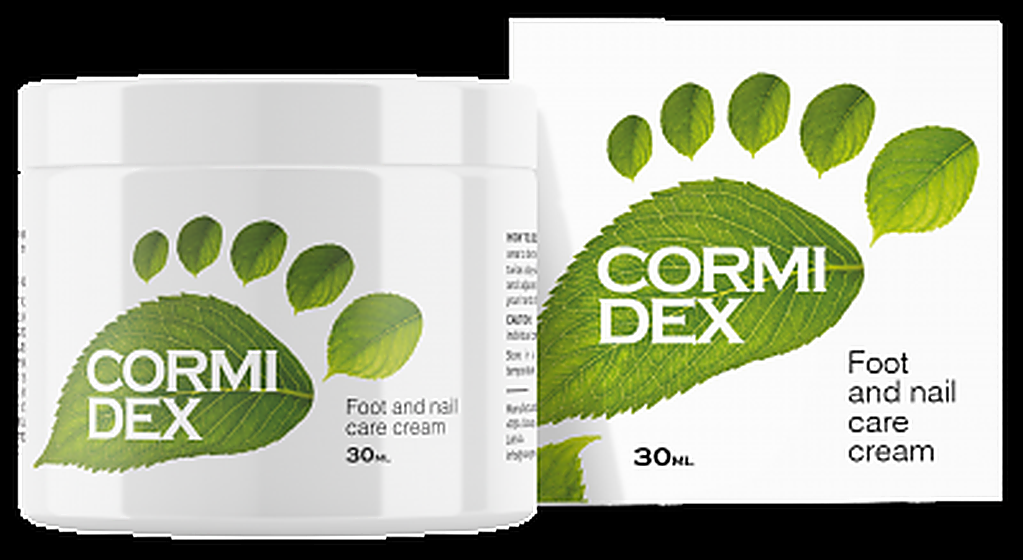
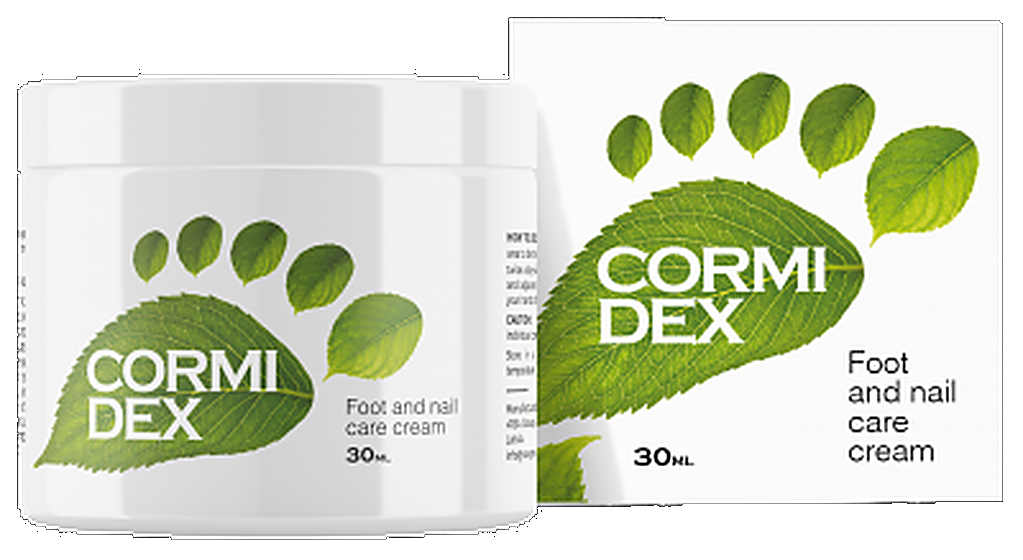
Фото: белый фон вместо чёрного — 763 кадра заливкой, 223 перерисовкой с автопроверкой текста

Changed region(s): [[0.0, 0.0, 1.0, 1.0]]

diff --git a/index.html b/index.html
@@ -52,7 +52,7 @@
 <div class="wrap">
   <header><img src="favicon.png" alt=""><h1>Ražotāja veikals</h1></header>
   <div class="intro"><p>Ikdienas labsajūtai paredzētu produktu tieša pārdošana.</p></div>
-  <div class="grid"><a class="card" href="/cp/abslim/"><div class="ph"><img src="img/lbhd-15182.png" alt="ABSlim" loading="lazy"></div><div class="name">ABSlim</div><div class="price">39 €</div><div class="btn">PASŪTĪT ORIĢINĀLU</div></a><a class="card" href="/cp/adamour/"><div class="ph"><img src="img/cp-4641.jpg" alt="Adamour" loading="lazy"></div><div class="name">Adamour</div><div class="price">39 €</div><div class="btn">PASŪTĪT ORIĢINĀLU</div></a><a class="card" href="/cp/alvarix/"><div class="ph"><img src="img/cp-16305.jpg" alt="Alvarix" loading="lazy"></div><div class="name">Alvarix</div><div class="price">39 €</div><div class="btn">PASŪTĪT ORIĢINĀLU</div></a><a class="card" href="/dc/articulor-balm/"><div class="ph"><img src="img/dccard-29939.png" alt="Articulor balm" loading="lazy"></div><div class="name">Articulor balm</div><div class="price">1 iep. BEZ MAKSAS</div><div class="btn">PASŪTĪT ORIĢINĀLU</div></a><a class="card" href="/ev/ausen/"><div class="ph"><img src="img/hd-eve-1589.png" alt="Ausen" loading="lazy"></div><div class="name">Ausen</div><div class="price">39 €</div><div class="btn">PASŪTĪT ORIĢINĀLU</div></a><a class="card" href="/sh/balancio/"><div class="ph"><img src="img/shhd-17588.png" alt="Balancio" loading="lazy"></div><div class="name">Balancio</div><div class="price">29 €</div><div class="btn">PASŪTĪT ORIĢINĀLU</div></a><a class="card" href="/cp/beauty-age/"><div class="ph"><img src="img/cp-16307.jpg" alt="Beauty Age" loading="lazy"></div><div class="name">Beauty Age</div><div class="price">39 €</div><div class="btn">PASŪTĪT ORIĢINĀLU</div></a><a class="card" href="/ev/beauty-age-skin/"><div class="ph"><img src="img/hd-eve-1013.png" alt="Beauty Age Skin" loading="lazy"></div><div class="name">Beauty Age Skin</div><div class="price">39 €</div><div class="btn">PASŪTĪT ORIĢINĀLU</div></a><a class="card" href="/kma/beauty-age-skin-peeling/"><div class="ph"><img src="img/kmahd-9824.png" alt="Beauty Age Skin Peeling" loading="lazy"></div><div class="name">Beauty Age Skin Peeling</div><div class="price">39 €</div><div class="btn">PASŪTĪT ORIĢINĀLU</div></a><a class="card" href="/rp/bionetic/"><div class="ph"><img src="img/rphd-861.png" alt="Bionetic" loading="lazy"></div><div class="name">Bionetic</div><div class="price">39 €</div><div class="btn">PASŪTĪT ORIĢINĀLU</div></a><a class="card" href="/cp/candidol/"><div class="ph"><img src="img/cp-5097.jpg" alt="Candidol" loading="lazy"></div><div class="name">Candidol</div><div class="price">39 €</div><div class="btn">PASŪTĪT ORIĢINĀLU</div></a><a class="card" href="/cp/cardiform/"><div class="ph"><img src="img/everad-cardiform.png" alt="Cardiform" loading="lazy"></div><div class="name">Cardiform</div><div class="price">39 €</div><div class="btn">PASŪTĪT ORIĢINĀLU</div></a><a class="card" href="/rp/cleorix/"><div class="ph"><img src="img/hd-roc-1238.png" alt="Cleorix" loading="lazy"></div><div class="name">Cleorix</div><div class="price">39 €</div><div class="btn">PASŪTĪT ORIĢINĀLU</div></a><a class="card" href="/lb/cormidox-cream/"><div class="ph"><img src="img/lbhd-17933.png" alt="Cormidox Cream" loading="lazy"></div><div class="name">Cormidox Cream</div><div class="price">49 €</div><div class="btn">PASŪTĪT ORIĢINĀLU</div></a><a class="card" href="/cp/cystolax/"><div class="ph"><img src="img/cpagetti-cystolax.png" alt="Cystolax" loading="lazy"></div><div class="name">Cystolax</div><div class="price">39 €</div><div class="btn">PASŪTĪT ORIĢINĀLU</div></a><a class="card" href="/cp/demyxil/"><div class="ph"><img src="img/everad-demyxil.png" alt="Demyxil" loading="lazy"></div><div class="name">Demyxil</div><div class="price">39 €</div><div class="btn">PASŪTĪT ORIĢINĀLU</div></a><a class="card" href="/ev/depanten/"><div class="ph"><img src="img/hd-eve-1200.png" alt="Depanten" loading="lazy"></div><div class="name">Depanten</div><div class="price">39 €</div><div class="btn">PASŪTĪT ORIĢINĀLU</div></a><a class="card" href="/cp/desalix/"><div class="ph"><img src="img/cat-drc-28679.jpg" alt="Desalix" loading="lazy"></div><div class="name">Desalix</div><div class="price">39 €</div><div class="btn">PASŪTĪT ORIĢINĀLU</div></a><a class="card" href="/dc/dia-control/"><div class="ph"><img src="img/cat-drc-28609.jpg" alt="Dia Control caps" loading="lazy"></div><div class="name">Dia Control caps</div><div class="price">1 iep. BEZ MAKSAS</div><div class="btn">PASŪTĪT ORIĢINĀLU</div></a><a class="card" href="/dc/diacontrol/"><div class="ph"><img src="img/drcash-diacontrol.png" alt="DiaControl caps" loading="lazy"></div><div class="name">DiaControl caps</div><div class="price">1 iep. BEZ MAKSAS</div><div class="btn">PASŪTĪT ORIĢINĀLU</div></a><a class="card" href="/cp/diaform/"><div class="ph"><img src="img/ev-cab-diaform.png" alt="Diaform+" loading="lazy"></div><div class="name">Diaform+</div><div class="price">39 €</div><div class="btn">PASŪTĪT ORIĢINĀLU</div></a><a class="card" href="/tl/diaquilin/"><div class="ph"><img src="img/tlhd-15400.png" alt="DiaQuilin" loading="lazy"></div><div class="name">DiaQuilin</div><div class="price">99 €</div><div class="btn">PASŪTĪT ORIĢINĀLU</div></a><a class="card" href="/tl/dm-norm/"><div class="ph"><img src="img/tlhd-13077.jpg" alt="DM-Norm" loading="lazy"></div><div class="name">DM-Norm</div><div class="price">90 €</div><div class="btn">PASŪTĪT ORIĢINĀLU</div></a><a class="card" href="/lb/dorsodex-cream/"><div class="ph"><img src="img/lbhd-17910.png" alt="Dorsodex Cream" loading="lazy"></div><div class="name">Dorsodex Cream</div><div class="price">49 €</div><div class="btn">PASŪTĪT ORIĢINĀLU</div></a><a class="card" href="/dc/erectogen/"><div class="ph"><img src="img/dccard-30045.png" alt="Erectogen Caps" loading="lazy"></div><div class="name">Erectogen Caps</div><div class="price">1 iep. BEZ MAKSAS</div><div class="btn">PASŪTĪT ORIĢINĀLU</div></a><a class="card" href="/lb/eudalie/"><div class="ph"><img src="img/lbhd-13922.png" alt="Eudalie" loading="lazy"></div><div class="name">Eudalie</div><div class="price">39 €</div><div class="btn">PASŪTĪT ORIĢINĀLU</div></a><a class="card" href="/m1/exofeet-oil/"><div class="ph"><img src="img/land-m1-6255.png" alt="Exofeet Oil" loading="lazy"></div><div class="name">Exofeet Oil</div><div class="price">39 €</div><div class="btn">PASŪTĪT ORIĢINĀLU</div></a><a class="card" href="/cp/exurol/"><div class="ph"><img src="img/drcash-exurol.png" alt="Exurol" loading="lazy"></div><div class="name">Exurol</div><div class="price">39 €</div><div class="btn">PASŪTĪT ORIĢINĀLU</div></a><a class="card" href="/dc/farmacin-drops/"><div class="ph"><img src="img/cat-drc-30383.jpg" alt="FARMACIN Drops" loading="lazy"></div><div class="name">FARMACIN Drops</div><div class="price">1 iep. BEZ MAKSAS</div><div class="btn">PASŪTĪT ORIĢINĀLU</div></a><a class="card" href="/cp/femixal/"><div class="ph"><img src="img/ev-cab-femixal.png" alt="Femixal" loading="lazy"></div><div class="name">Femixal</div><div class="price">39 €</div><div class="btn">PASŪTĪT ORIĢINĀLU</div></a><a class="card" href="/lb/fungizol-cream/"><div class="ph"><img src="img/lbhd-17911.png" alt="Fungizol Cream" loading="lazy"></div><div class="name">Fungizol Cream</div><div class="price">49 €</div><div class="btn">PASŪTĪT ORIĢINĀLU</div></a><a class="card" href="/sh/gigant/"><div class="ph"><img src="img/lbhd-3762.png" alt="Gigant" loading="lazy"></div><div class="name">Gigant</div><div class="price">39 €</div><div class="btn">PASŪTĪT ORIĢINĀLU</div></a><a class="card" href="/cp/glucadin/"><div class="ph"><img src="img/cp-18019.jpg" alt="Glucadin" loading="lazy"></div><div class="name">Glucadin</div><div class="price">39 €</div><div class="btn">PASŪTĪT ORIĢINĀLU</div></a><a class="card" href="/rp/guavital/"><div class="ph"><img src="img/hd-roc-791.png" alt="Guavital Caps" loading="lazy"></div><div class="name">Guavital Caps</div><div class="price">39 €</div><div class="btn">PASŪTĪT ORIĢINĀLU</div></a><a class="card" href="/cp/hondrofrost/"><div class="ph"><img src="img/trafficlight-hondrofrost.webp" alt="Hondrofrost" loading="lazy"></div><div class="name">Hondrofrost</div><div class="price">39 €</div><div class="btn">PASŪTĪT ORIĢINĀLU</div></a><a class="card" href="/cp/hondroine/"><div class="ph"><img src="img/leadbit-hondroine.png" alt="Hondroine" loading="lazy"></div><div class="name">Hondroine</div><div class="price">39 €</div><div class="btn">PASŪTĪT ORIĢINĀLU</div></a><a class="card" href="/sh/hondroten/"><div class="ph"><img src="img/shhd-17840.png" alt="Hondroten" loading="lazy"></div><div class="name">Hondroten</div><div class="price">29 €</div><div class="btn">PASŪTĪT ORIĢINĀLU</div></a><a class="card" href="/tl/hyperon-active/"><div class="ph"><img src="img/tlhd-13078.jpg" alt="Hyperon Active" loading="lazy"></div><div class="name">Hyperon Active</div><div class="price">90 €</div><div class="btn">PASŪTĪT ORIĢINĀLU</div></a><a class="card" href="/tl/hyperton/"><div class="ph"><img src="img/land-meta-5214.png" alt="Hyperton" loading="lazy"></div><div class="name">Hyperton</div><div class="price">1 iep. BEZ MAKSAS</div><div class="btn">PASŪTĪT ORIĢINĀLU</div></a><a class="card" href="/lb/icexin/"><div class="ph"><img src="img/shakes-icexin.png" alt="Icexin" loading="lazy"></div><div class="name">Icexin</div><div class="price">29 €</div><div class="btn">PASŪTĪT ORIĢINĀLU</div></a><a class="card" href="/cp/inspicure/"><div class="ph"><img src="img/kma-inspicure-9881.jpg" alt="Inspicure" loading="lazy"></div><div class="name">Inspicure</div><div class="price">29 €</div><div class="btn">PASŪTĪT ORIĢINĀLU</div></a><a class="card" href="/cp/insuvit/"><div class="ph"><img src="img/cp-11689.jpg" alt="Insuvit" loading="lazy"></div><div class="name">Insuvit</div><div class="price">39 €</div><div class="btn">PASŪTĪT ORIĢINĀLU</div></a><a class="card" href="/ev/kardivix/"><div class="ph"><img src="img/hd-eve-1799.png" alt="Kardivix" loading="lazy"></div><div class="name">Kardivix</div><div class="price">39 €</div><div class="btn">PASŪTĪT ORIĢINĀLU</div></a><a class="card" href="/lb/keto-drops/"><div class="ph"><img src="img/lbhd-11669.png" alt="Keto" loading="lazy"></div><div class="name">Keto</div><div class="price">39 €</div><div class="btn">PASŪTĪT ORIĢINĀLU</div></a><a class="card" href="/cp/keto-drops/"><div class="ph"><img src="img/cp-11073.jpg" alt="Keto Drops" loading="lazy"></div><div class="name">Keto Drops</div><div class="price">39 €</div><div class="btn">PASŪTĪT ORIĢINĀLU</div></a><a class="card" href="/tl/libidomatic/"><div class="ph"><img src="img/tlhd-14881.png" alt="Libidomatic" loading="lazy"></div><div class="name">Libidomatic</div><div class="price">90 €</div><div class="btn">PASŪTĪT ORIĢINĀLU</div></a><a class="card" href="/tl/lio-strong/"><div class="ph"><img src="img/tlhd-13073.png" alt="Lio Strong" loading="lazy"></div><div class="name">Lio Strong</div><div class="price">90 €</div><div class="btn">PASŪTĪT ORIĢINĀLU</div></a><a class="card" href="/tl/mennex/"><div class="ph"><img src="img/tlhd-20133.png" alt="Mennex (Caps)" loading="lazy"></div><div class="name">Mennex (Caps)</div><div class="price">49 €</div><div class="btn">PASŪTĪT ORIĢINĀLU</div></a></div>
+  <div class="grid"><a class="card" href="/cp/abslim/"><div class="ph"><img src="img/lbhd-15182.png" alt="ABSlim" loading="lazy"></div><div class="name">ABSlim</div><div class="price">39 €</div><div class="btn">PASŪTĪT ORIĢINĀLU</div></a><a class="card" href="/cp/adamour/"><div class="ph"><img src="img/cp-4641.jpg" alt="Adamour" loading="lazy"></div><div class="name">Adamour</div><div class="price">39 €</div><div class="btn">PASŪTĪT ORIĢINĀLU</div></a><a class="card" href="/cp/alvarix/"><div class="ph"><img src="img/cp-16305.jpg" alt="Alvarix" loading="lazy"></div><div class="name">Alvarix</div><div class="price">39 €</div><div class="btn">PASŪTĪT ORIĢINĀLU</div></a><a class="card" href="/dc/articulor-balm/"><div class="ph"><img src="img/dccard-29939.png" alt="Articulor balm" loading="lazy"></div><div class="name">Articulor balm</div><div class="price">1 iep. BEZ MAKSAS</div><div class="btn">PASŪTĪT ORIĢINĀLU</div></a><a class="card" href="/ev/ausen/"><div class="ph"><img src="img/hd-eve-1589.png" alt="Ausen" loading="lazy"></div><div class="name">Ausen</div><div class="price">39 €</div><div class="btn">PASŪTĪT ORIĢINĀLU</div></a><a class="card" href="/sh/balancio/"><div class="ph"><img src="img/shhd-17588.png" alt="Balancio" loading="lazy"></div><div class="name">Balancio</div><div class="price">29 €</div><div class="btn">PASŪTĪT ORIĢINĀLU</div></a><a class="card" href="/cp/beauty-age/"><div class="ph"><img src="img/cp-16307.jpg" alt="Beauty Age" loading="lazy"></div><div class="name">Beauty Age</div><div class="price">39 €</div><div class="btn">PASŪTĪT ORIĢINĀLU</div></a><a class="card" href="/ev/beauty-age-skin/"><div class="ph"><img src="img/hd-eve-1013.png" alt="Beauty Age Skin" loading="lazy"></div><div class="name">Beauty Age Skin</div><div class="price">39 €</div><div class="btn">PASŪTĪT ORIĢINĀLU</div></a><a class="card" href="/kma/beauty-age-skin-peeling/"><div class="ph"><img src="img/kmahd-9824.png" alt="Beauty Age Skin Peeling" loading="lazy"></div><div class="name">Beauty Age Skin Peeling</div><div class="price">39 €</div><div class="btn">PASŪTĪT ORIĢINĀLU</div></a><a class="card" href="/rp/bionetic/"><div class="ph"><img src="img/rphd-861.png" alt="Bionetic" loading="lazy"></div><div class="name">Bionetic</div><div class="price">39 €</div><div class="btn">PASŪTĪT ORIĢINĀLU</div></a><a class="card" href="/cp/candidol/"><div class="ph"><img src="img/cp-5097.jpg" alt="Candidol" loading="lazy"></div><div class="name">Candidol</div><div class="price">39 €</div><div class="btn">PASŪTĪT ORIĢINĀLU</div></a><a class="card" href="/cp/cardiform/"><div class="ph"><img src="img/everad-cardiform.png" alt="Cardiform" loading="lazy"></div><div class="name">Cardiform</div><div class="price">39 €</div><div class="btn">PASŪTĪT ORIĢINĀLU</div></a><a class="card" href="/rp/cleorix/"><div class="ph"><img src="img/hd-roc-1238.png" alt="Cleorix" loading="lazy"></div><div class="name">Cleorix</div><div class="price">39 €</div><div class="btn">PASŪTĪT ORIĢINĀLU</div></a><a class="card" href="/lb/cormidox-cream/"><div class="ph"><img src="img/lbhd-17933.png" alt="Cormidox Cream" loading="lazy"></div><div class="name">Cormidox Cream</div><div class="price">49 €</div><div class="btn">PASŪTĪT ORIĢINĀLU</div></a><a class="card" href="/cp/cystolax/"><div class="ph"><img src="img/cpagetti-cystolax.png" alt="Cystolax" loading="lazy"></div><div class="name">Cystolax</div><div class="price">39 €</div><div class="btn">PASŪTĪT ORIĢINĀLU</div></a><a class="card" href="/cp/demyxil/"><div class="ph"><img src="img/redraw-everad-demyxil.png" alt="Demyxil" loading="lazy"></div><div class="name">Demyxil</div><div class="price">39 €</div><div class="btn">PASŪTĪT ORIĢINĀLU</div></a><a class="card" href="/ev/depanten/"><div class="ph"><img src="img/hd-eve-1200.png" alt="Depanten" loading="lazy"></div><div class="name">Depanten</div><div class="price">39 €</div><div class="btn">PASŪTĪT ORIĢINĀLU</div></a><a class="card" href="/cp/desalix/"><div class="ph"><img src="img/cat-drc-28679.jpg" alt="Desalix" loading="lazy"></div><div class="name">Desalix</div><div class="price">39 €</div><div class="btn">PASŪTĪT ORIĢINĀLU</div></a><a class="card" href="/dc/dia-control/"><div class="ph"><img src="img/cat-drc-28609.jpg" alt="Dia Control caps" loading="lazy"></div><div class="name">Dia Control caps</div><div class="price">1 iep. BEZ MAKSAS</div><div class="btn">PASŪTĪT ORIĢINĀLU</div></a><a class="card" href="/dc/diacontrol/"><div class="ph"><img src="img/drcash-diacontrol.png" alt="DiaControl caps" loading="lazy"></div><div class="name">DiaControl caps</div><div class="price">1 iep. BEZ MAKSAS</div><div class="btn">PASŪTĪT ORIĢINĀLU</div></a><a class="card" href="/cp/diaform/"><div class="ph"><img src="img/ev-cab-diaform.png" alt="Diaform+" loading="lazy"></div><div class="name">Diaform+</div><div class="price">39 €</div><div class="btn">PASŪTĪT ORIĢINĀLU</div></a><a class="card" href="/tl/diaquilin/"><div class="ph"><img src="img/tlhd-15400.png" alt="DiaQuilin" loading="lazy"></div><div class="name">DiaQuilin</div><div class="price">99 €</div><div class="btn">PASŪTĪT ORIĢINĀLU</div></a><a class="card" href="/tl/dm-norm/"><div class="ph"><img src="img/tlhd-13077.jpg" alt="DM-Norm" loading="lazy"></div><div class="name">DM-Norm</div><div class="price">90 €</div><div class="btn">PASŪTĪT ORIĢINĀLU</div></a><a class="card" href="/lb/dorsodex-cream/"><div class="ph"><img src="img/lbhd-17910.png" alt="Dorsodex Cream" loading="lazy"></div><div class="name">Dorsodex Cream</div><div class="price">49 €</div><div class="btn">PASŪTĪT ORIĢINĀLU</div></a><a class="card" href="/dc/erectogen/"><div class="ph"><img src="img/dccard-30045.png" alt="Erectogen Caps" loading="lazy"></div><div class="name">Erectogen Caps</div><div class="price">1 iep. BEZ MAKSAS</div><div class="btn">PASŪTĪT ORIĢINĀLU</div></a><a class="card" href="/lb/eudalie/"><div class="ph"><img src="img/lbhd-13922.png" alt="Eudalie" loading="lazy"></div><div class="name">Eudalie</div><div class="price">39 €</div><div class="btn">PASŪTĪT ORIĢINĀLU</div></a><a class="card" href="/m1/exofeet-oil/"><div class="ph"><img src="img/redraw-land-m1-6255.png" alt="Exofeet Oil" loading="lazy"></div><div class="name">Exofeet Oil</div><div class="price">39 €</div><div class="btn">PASŪTĪT ORIĢINĀLU</div></a><a class="card" href="/cp/exurol/"><div class="ph"><img src="img/drcash-exurol.png" alt="Exurol" loading="lazy"></div><div class="name">Exurol</div><div class="price">39 €</div><div class="btn">PASŪTĪT ORIĢINĀLU</div></a><a class="card" href="/dc/farmacin-drops/"><div class="ph"><img src="img/cat-drc-30383.jpg" alt="FARMACIN Drops" loading="lazy"></div><div class="name">FARMACIN Drops</div><div class="price">1 iep. BEZ MAKSAS</div><div class="btn">PASŪTĪT ORIĢINĀLU</div></a><a class="card" href="/cp/femixal/"><div class="ph"><img src="img/ev-cab-femixal.png" alt="Femixal" loading="lazy"></div><div class="name">Femixal</div><div class="price">39 €</div><div class="btn">PASŪTĪT ORIĢINĀLU</div></a><a class="card" href="/lb/fungizol-cream/"><div class="ph"><img src="img/lbhd-17911.png" alt="Fungizol Cream" loading="lazy"></div><div class="name">Fungizol Cream</div><div class="price">49 €</div><div class="btn">PASŪTĪT ORIĢINĀLU</div></a><a class="card" href="/sh/gigant/"><div class="ph"><img src="img/lbhd-3762.png" alt="Gigant" loading="lazy"></div><div class="name">Gigant</div><div class="price">39 €</div><div class="btn">PASŪTĪT ORIĢINĀLU</div></a><a class="card" href="/cp/glucadin/"><div class="ph"><img src="img/cp-18019.jpg" alt="Glucadin" loading="lazy"></div><div class="name">Glucadin</div><div class="price">39 €</div><div class="btn">PASŪTĪT ORIĢINĀLU</div></a><a class="card" href="/rp/guavital/"><div class="ph"><img src="img/hd-roc-791.png" alt="Guavital Caps" loading="lazy"></div><div class="name">Guavital Caps</div><div class="price">39 €</div><div class="btn">PASŪTĪT ORIĢINĀLU</div></a><a class="card" href="/cp/hondrofrost/"><div class="ph"><img src="img/trafficlight-hondrofrost.webp" alt="Hondrofrost" loading="lazy"></div><div class="name">Hondrofrost</div><div class="price">39 €</div><div class="btn">PASŪTĪT ORIĢINĀLU</div></a><a class="card" href="/cp/hondroine/"><div class="ph"><img src="img/leadbit-hondroine.png" alt="Hondroine" loading="lazy"></div><div class="name">Hondroine</div><div class="price">39 €</div><div class="btn">PASŪTĪT ORIĢINĀLU</div></a><a class="card" href="/sh/hondroten/"><div class="ph"><img src="img/shhd-17840.png" alt="Hondroten" loading="lazy"></div><div class="name">Hondroten</div><div class="price">29 €</div><div class="btn">PASŪTĪT ORIĢINĀLU</div></a><a class="card" href="/tl/hyperon-active/"><div class="ph"><img src="img/tlhd-13078.jpg" alt="Hyperon Active" loading="lazy"></div><div class="name">Hyperon Active</div><div class="price">90 €</div><div class="btn">PASŪTĪT ORIĢINĀLU</div></a><a class="card" href="/tl/hyperton/"><div class="ph"><img src="img/land-meta-5214.png" alt="Hyperton" loading="lazy"></div><div class="name">Hyperton</div><div class="price">1 iep. BEZ MAKSAS</div><div class="btn">PASŪTĪT ORIĢINĀLU</div></a><a class="card" href="/lb/icexin/"><div class="ph"><img src="img/shakes-icexin.png" alt="Icexin" loading="lazy"></div><div class="name">Icexin</div><div class="price">29 €</div><div class="btn">PASŪTĪT ORIĢINĀLU</div></a><a class="card" href="/cp/inspicure/"><div class="ph"><img src="img/kma-inspicure-9881.jpg" alt="Inspicure" loading="lazy"></div><div class="name">Inspicure</div><div class="price">29 €</div><div class="btn">PASŪTĪT ORIĢINĀLU</div></a><a class="card" href="/cp/insuvit/"><div class="ph"><img src="img/cp-11689.jpg" alt="Insuvit" loading="lazy"></div><div class="name">Insuvit</div><div class="price">39 €</div><div class="btn">PASŪTĪT ORIĢINĀLU</div></a><a class="card" href="/ev/kardivix/"><div class="ph"><img src="img/hd-eve-1799.png" alt="Kardivix" loading="lazy"></div><div class="name">Kardivix</div><div class="price">39 €</div><div class="btn">PASŪTĪT ORIĢINĀLU</div></a><a class="card" href="/lb/keto-drops/"><div class="ph"><img src="img/lbhd-11669.png" alt="Keto" loading="lazy"></div><div class="name">Keto</div><div class="price">39 €</div><div class="btn">PASŪTĪT ORIĢINĀLU</div></a><a class="card" href="/cp/keto-drops/"><div class="ph"><img src="img/cp-11073.jpg" alt="Keto Drops" loading="lazy"></div><div class="name">Keto Drops</div><div class="price">39 €</div><div class="btn">PASŪTĪT ORIĢINĀLU</div></a><a class="card" href="/tl/libidomatic/"><div class="ph"><img src="img/tlhd-14881.png" alt="Libidomatic" loading="lazy"></div><div class="name">Libidomatic</div><div class="price">90 €</div><div class="btn">PASŪTĪT ORIĢINĀLU</div></a><a class="card" href="/tl/lio-strong/"><div class="ph"><img src="img/tlhd-13073.png" alt="Lio Strong" loading="lazy"></div><div class="name">Lio Strong</div><div class="price">90 €</div><div class="btn">PASŪTĪT ORIĢINĀLU</div></a><a class="card" href="/tl/mennex/"><div class="ph"><img src="img/tlhd-20133.png" alt="Mennex (Caps)" loading="lazy"></div><div class="name">Mennex (Caps)</div><div class="price">49 €</div><div class="btn">PASŪTĪT ORIĢINĀLU</div></a></div>
   <footer><a href="privacy.html">Privātuma politika</a><a href="terms.html">Lietošanas noteikumi</a><a href="kontakt.html">Kontakti</a><a href="about.html">Par mums</a><span>fazalstrk@gmail.com</span><span>© 2026</span></footer>
 </div>
 </body>

diff --git a/m1/exofeet-oil/index.html b/m1/exofeet-oil/index.html
@@ -260,7 +260,7 @@ body.free .disc,body:not(.free) .nodisc{display:none}
       <div>
         <div class="product-card">
           <span class="disc-ribbon disc">-50%</span>
-          <img src="../../img/land-m1-6255.png" alt="Exofeet Oil">
+          <img src="../../img/redraw-land-m1-6255.png" alt="Exofeet Oil">
           <div><span class="ribbon">Oriģināls</span><div class="shotcap">Oriģinālais iepakojums ar plombu un partijas numuru</div></div>
         </div>
       </div>

diff --git a/cp/demyxil-14221/index.html b/cp/demyxil-14221/index.html
@@ -260,7 +260,7 @@ body.free .disc,body:not(.free) .nodisc{display:none}
       <div>
         <div class="product-card">
           <span class="disc-ribbon disc">-50%</span>
-          <img src="../../img/everad-demyxil.png" alt="Demyxil">
+          <img src="../../img/redraw-everad-demyxil.png" alt="Demyxil">
           <div><span class="ribbon">Oriģināls</span><div class="shotcap">Oriģinālais iepakojums ar plombu un partijas numuru</div></div>
         </div>
       </div>

diff --git a/cp/demyxil/index.html b/cp/demyxil/index.html
@@ -260,7 +260,7 @@ body.free .disc,body:not(.free) .nodisc{display:none}
       <div>
         <div class="product-card">
           <span class="disc-ribbon disc">-50%</span>
-          <img src="../../img/everad-demyxil.png" alt="Demyxil">
+          <img src="../../img/redraw-everad-demyxil.png" alt="Demyxil">
           <div><span class="ribbon">Oriģināls</span><div class="shotcap">Oriģinālais iepakojums ar plombu un partijas numuru</div></div>
         </div>
       </div>

diff --git a/kma/oculax/index.html b/kma/oculax/index.html
@@ -260,7 +260,7 @@ body.free .disc,body:not(.free) .nodisc{display:none}
       <div>
         <div class="product-card">
           <span class="disc-ribbon disc">-50%</span>
-          <img src="../../img/kmahd-6054.png" alt="Oculax">
+          <img src="../../img/redraw-kmahd-6054.png" alt="Oculax">
           <div><span class="ribbon">Oriģināls</span><div class="shotcap">Oriģinālais iepakojums ar plombu un partijas numuru</div></div>
         </div>
       </div>
